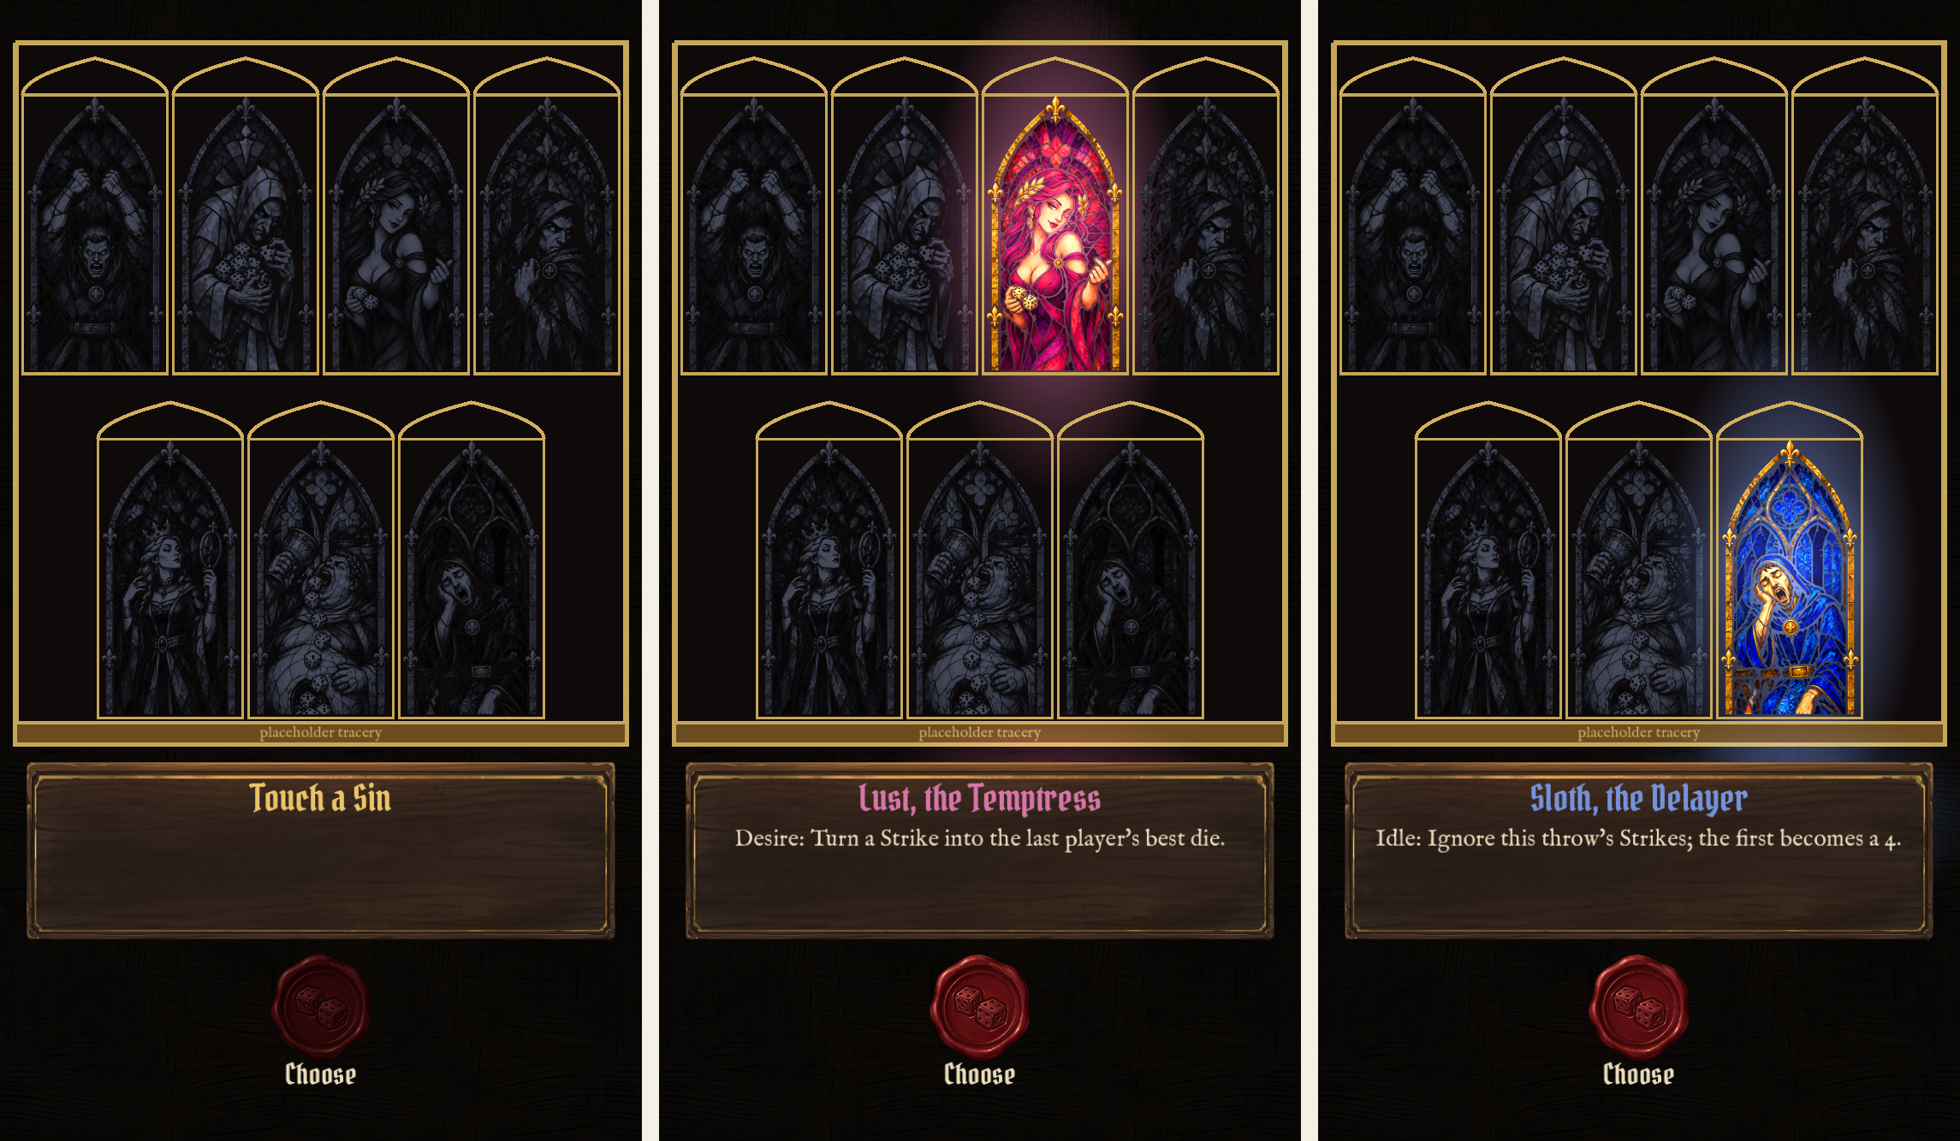
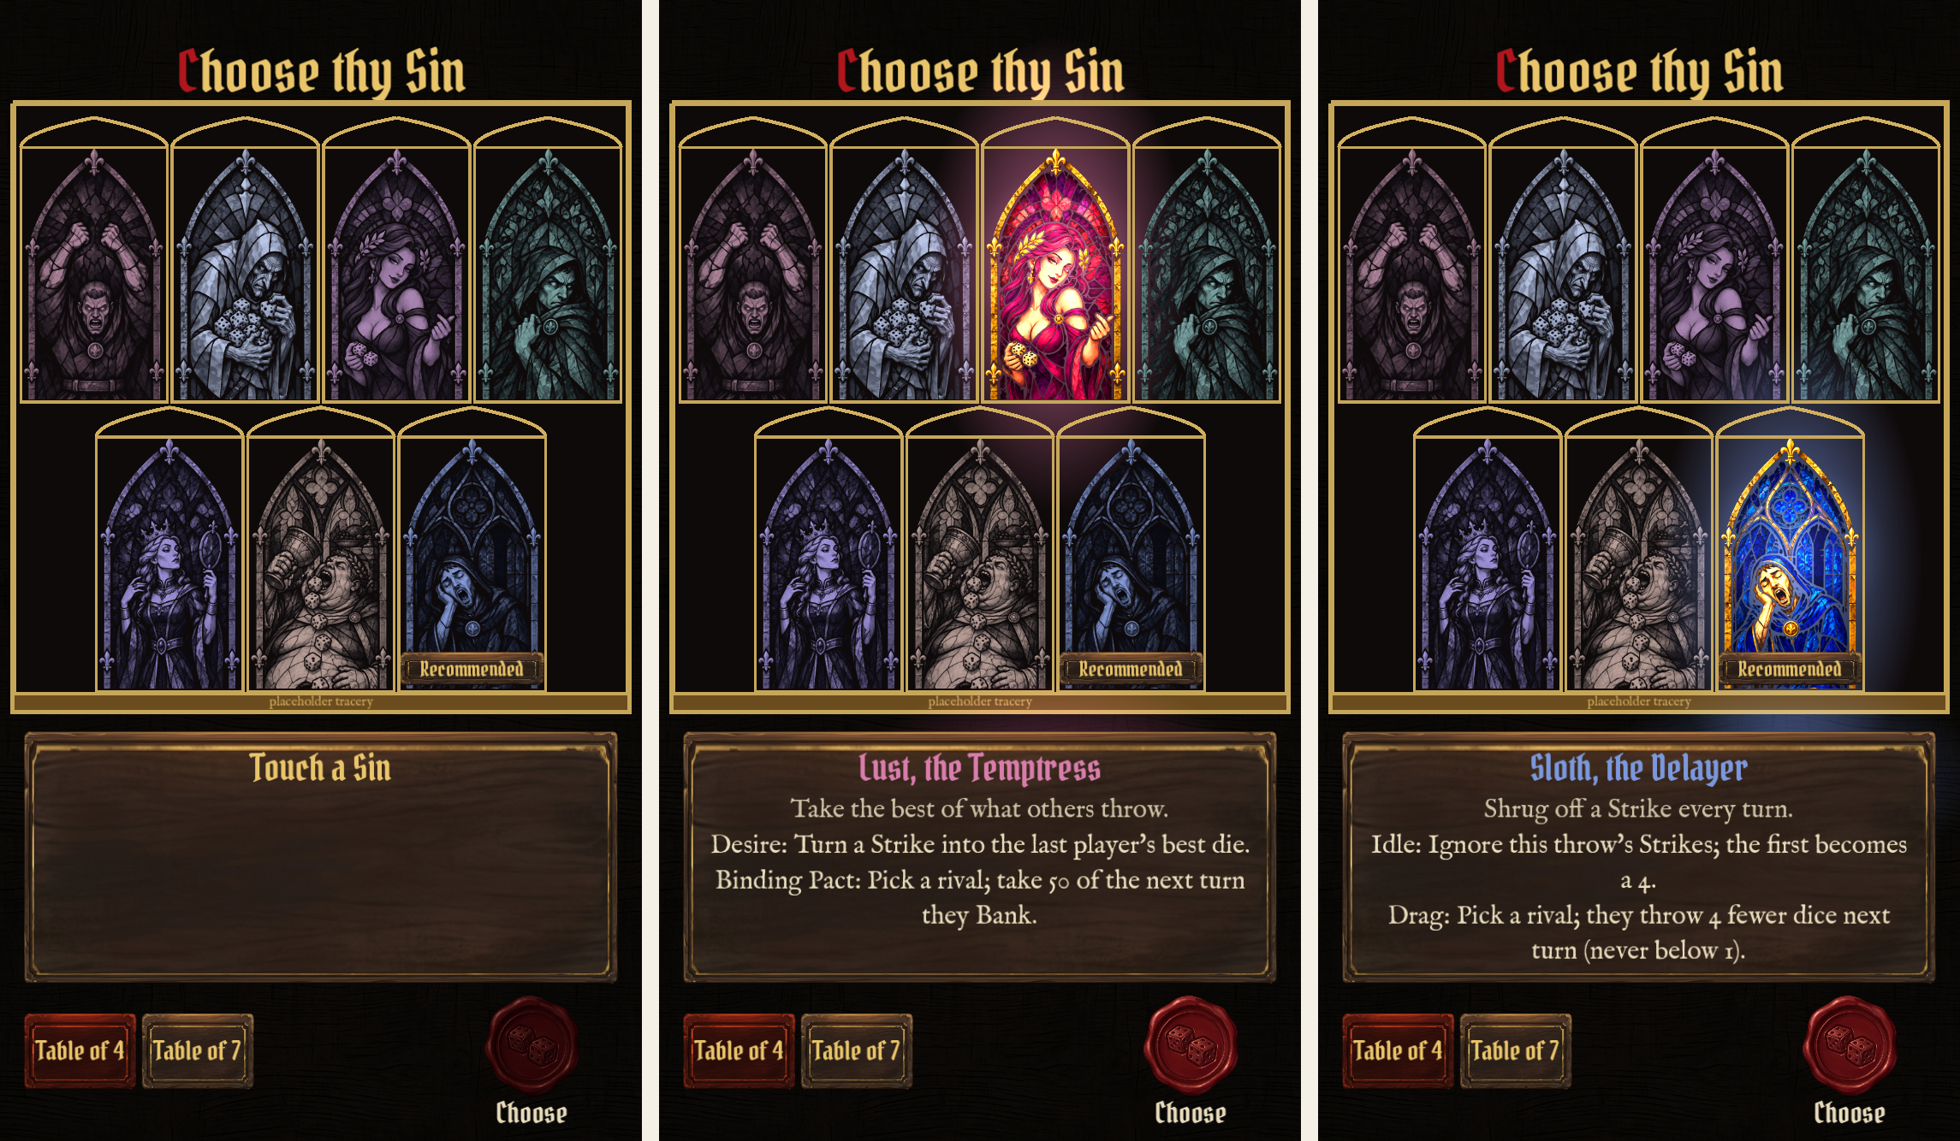
review: packet for REPLY 31 (target frame, SE Master plate, Sin plates, selection window, tracery plan); REPLY 28-30 packet archived

diff --git a/Docs/review/latest/packet.md b/Docs/review/latest/packet.md
@@ -1,28 +1,29 @@
-# Packet: REPLY 28-30 (Master fixes, numerals, Sin plates, menus, motion list, frame and tracery quotes)
-**Local only, not pushed. 0 credits spent (162 left).** Suite: all pass (load check, then 9 tests). Text audit: 35/35 clean at se and std. Lock: the nine locked states keep their window boxes (std and SE). Page sheet (28.2) dropped per REPLY 29.
-**28.3 Numerals** (ee55d18, 0790712; `sheet.png`: Pirata before over Cinzel after). The audit then caught my own fault: the choice number sat 6 px under its word (12.5-13.1 pt). Now no table text goes under 15 pt on the smallest phone (MIN_TEXT 44 px); a number is the same size as its word.
-**28.4 Master** (a9a4c83; `master.png`). Mark and offer have no arm: plate and gold ring only. His plate over the rival tops: mark 82 std; **103 at SE**. His words can't step down there without going under 15 pt (Q1). At SE his skull sits under his own mark and offer plate.
-**28.5** (30bdbf5, b65e6b1): a rival's stake is in ink; only "<Sin>'s turn" is coloured. "Buy dice?" drops 9 px inside its plate, off the gold border; the row keeps its height. A two-line question stays where it was (dropping it touched the buttons).
-**28.6 Jaw** (cd205aa; `master.png` right): only the jaw's connected piece is kept; the chin rest's sliver and the flecks are gone. Size and hinge are unchanged.
-**28.1 Sin plates** (9359854; `sin_plates.png`, mock `tools/sin_plate_mock.gd`, not wired). Recorded in TableSpec as exception 2, "sheeted, not wired". No Master plate while a Sin speaks. The border is the plate's gold recoloured to the Sin's colour.
-- Active Sin: across the foot of its window, at the window's width (385 std, 276 SE). A long line wraps to 3 lines at std and **5 at SE**, covering the face; "underpriced" splits from its comma.
-- Rival Sin: hung over its window, notch down. It is wider than its window (282-618 px) and sits over the band above. At std it covers the Master's jaw. At SE his face shows; the plate covers part of his crown of roses. At std the long line leaves "4." alone on a line.
-**28.7 / 30.2 Motion**: `animations.md` lists the table (18 items) and the Sin selection screen (8). Not animated: candle flames, window light, track tokens (they jump), the plates.
-**28.8 Menus** (`menus.png`, 18 screens, before and after; mock `tools/menu_restyle_mock.gd`, not wired).
-- Painted page or plate in place of flat panels; buttons on the plate in gold Pirata; a selected toggle is the plate dyed crimson; text in IM Fell, ink on light and bone on dark.
-- Screens with no flat panels (title, Sin select, offer) barely change. The Chronicle's plate stretches its wood grain full height. The accept, refuse, claim, score and end overlays are the old board's.
-**29 Target frame**: not made; waiting for your word.
-- Plan: Nano Banana 2.1 at 2K 9:16, built on today's std table screenshot, with the kept windows, seals and candles as references. 18 credits each; 2 tries = 36. Cut to 750x1334.
-- Touches nothing in the build; files go in `Docs/review/latest/` only.
-- To be restyled: the page (with frame), track, tokens, pointer, dice, window light, a third seal and the top band. I will overlay the lock boxes on the result and list every element that moved.
-**30 Sin selection window** (`sin_window.png`: none lit, Lust lit top tier, Sloth lit bottom tier; mock `tools/sin_window_mock.gd`, placeholder tracery, 0 credits).
-- Lancets 4 over 3, 231x463 layout px = 160x321 px at 750 wide. Each kept window is cropped from the top to 2.0:1 (they are 3.4:1), so every Sin loses the lower ~40% of its window and the bottom of its own frame.
-- Unlit and lit are one shader. The plate shows the power only; the seal is the Throw art as a stand-in.
-- Tracery quote: GPT 2.5 Flare 2K, transparent, the target frame as reference: 22 credits each, 2 tries = 44. Touches nothing now; wired later it touches the selection scene and its input only.
+# Packet: REPLY 31 (target frame, SE Master plate, Sin plates, selection window, tracery plan)
+**Local only, not pushed. 18 credits spent (144 left).** Suite: all pass (load check, then 9 tests). Text audit: 35/35 clean at se and std. Lock: OK at std and SE. Wired this round: item 2 only.
+**31.1 Target frame** (one try; `frame.png`: today | frame | frame with the lock boxes; `target_frame.png` at 750x1334). No lettering.
+- Same boxes: windows, dice, Bank and Throw, my seal, the page.
+- Moved or restyled: the top band is carved stone niches. The Master is the full fiddle piece (bow and fiddle), right of and higher than his head box. The page has a gilded carved border with a deckled page inside. The track tokens are darker medallions. The dead die is cracked. The ability seal is pink wax with a rose (its die badge kept). Stake and numbers are blank.
+- Not as asked: the window light is still a hard-edged polygon; the coloured bars under the dice remain; the pointer is still a pill with a triangle; the snuffed candle is ivory, not dark.
+**31.2 Master plate** (67ec6c5, b90ff4f; `master.png`).
+- The cause was that his breath scaled about his foot, so at SE he drew 150 px low and his plate covered his skull. His position now takes that pivot back out, so he draws where his boxes say at every size.
+- Wording: "{name} leads. No chain this round." is now "{name} leads. No chain." No other line was reworded.
+- Plate over the rivals: 103 to 44 px at SE (one line); 82 px at std, unchanged, where it still wraps after "No".
+**31.3 Sin plates** (`sin_plates.png`, 8 cases plus each seat's longest line, std and SE; `tools/sin_plate_mock.gd`; not wired). No plate touches his skull or jaw.
+- Every plate is at its own window's foot. A rival's notch points up and its window brightens.
+- At std every line fits on 1-2 lines at 60. At SE only Wrath's "You burned / past Lust. / Not me." takes 3 lines; the rest take 2 at 60.
+- A rival's plate now sits over the top of the page's track. At std it spans y 878-1061 and covers the rival tokens and totals.
+**31.4 Selection window** (`sin_window.png`: none lit, Lust lit, Sloth lit; `tools/sin_window_mock.gd`; not wired).
+- Unlit is moonlit grey with a tint of each Sin. "Choose thy Sin" and the Table of 4 / 7 control are back. Tiers are 8 px apart. Lancets are 236x423 (164x294 at 750 wide).
+- Crop: 1.79:1 of the 3.4:1 windows (was 2.0:1). Most of the height goes to the plate, which carries both abilities.
+- Carried over: sheen and backlight, the Recommended tag on Sloth, epithet, play, and both abilities. Cannot show in a still: the breathing glow; the "plaque" sound and sting; keyboard; Reduce Motion. These are design only until it is wired. Dots and swipe are replaced by dragging across the lancets.
+- Name contrast on the plate, raised to at least 4.5:1 where it fell short: Wrath 4.1 to 4.6, Lust 4.4 to 4.6, Pride 4.3 to 4.5, Sloth 4.3 to 4.6; the rest pass as they are.
+**31.5 Tracery plan** (no credits):
+- Generate one lancet module: canopy and side posts, transparent, made once. Code tiles it 4 + 3 at the exact lancet rects, so the holes line up by construction. A separate outer frame and base band go around it. The other way, fitting the lancets to one generated piece, means measuring holes that drift each try.
+**31.6 Menus**: on hold until the frame. Pirata stays for the title wordmark and the screen headings. **31.7 VFX notes** (line fades, token motion, the Strike box): recorded for the VFX pass, not built.
+**Touches / could break**: wired code touches only the Master's position and one line of `ui/rules_text.gd` (with its fixture). It could break his placement at other sizes, which the lock, the audit and the suite cover.
 
 **Questions**
-1. SE mark plate is 103 px over the rivals, not 92, because of the 15 pt floor: accept it, shorten that line, or tighten line spacing (91 px, letters near the gold border)? Rec: shorten that line.
-2. Make the target frame: 2 tries, 36 credits? Rec: yes.
-3. Make the tracery after the frame is approved: 2 tries, 44 credits? Rec: yes, after Q2.
-4. A Sin's line over 2 lines on its own window (SE): show it on a plate hung from the window top, like a rival's? Rec: yes.
-5. Wire the Sin plates as sheeted, with Q4? Rec: yes.
+1. Second frame try (18 credits), fixing the four "not as asked" items? Rec: yes, after your look.
+2. Plates: rival plates cover the track top. Accept that while a rival speaks? Rec: yes; the track is display only.
+3. Selection crop 1.79:1: move the table-size control onto the heading row to gain about 100 px of lancet? Rec: yes.
+4. Tracery as one repeated lancet module plus a frame? Rec: yes.

diff --git a/Docs/review/archive/2026-11-16-reply28-30/packet.md b/Docs/review/archive/2026-11-16-reply28-30/packet.md
@@ -1,0 +1,28 @@
+# Packet: REPLY 28-30 (Master fixes, numerals, Sin plates, menus, motion list, frame and tracery quotes)
+**Local only, not pushed. 0 credits spent (162 left).** Suite: all pass (load check, then 9 tests). Text audit: 35/35 clean at se and std. Lock: the nine locked states keep their window boxes (std and SE). Page sheet (28.2) dropped per REPLY 29.
+**28.3 Numerals** (ee55d18, 0790712; `sheet.png`: Pirata before over Cinzel after). The audit then caught my own fault: the choice number sat 6 px under its word (12.5-13.1 pt). Now no table text goes under 15 pt on the smallest phone (MIN_TEXT 44 px); a number is the same size as its word.
+**28.4 Master** (a9a4c83; `master.png`). Mark and offer have no arm: plate and gold ring only. His plate over the rival tops: mark 82 std; **103 at SE**. His words can't step down there without going under 15 pt (Q1). At SE his skull sits under his own mark and offer plate.
+**28.5** (30bdbf5, b65e6b1): a rival's stake is in ink; only "<Sin>'s turn" is coloured. "Buy dice?" drops 9 px inside its plate, off the gold border; the row keeps its height. A two-line question stays where it was (dropping it touched the buttons).
+**28.6 Jaw** (cd205aa; `master.png` right): only the jaw's connected piece is kept; the chin rest's sliver and the flecks are gone. Size and hinge are unchanged.
+**28.1 Sin plates** (9359854; `sin_plates.png`, mock `tools/sin_plate_mock.gd`, not wired). Recorded in TableSpec as exception 2, "sheeted, not wired". No Master plate while a Sin speaks. The border is the plate's gold recoloured to the Sin's colour.
+- Active Sin: across the foot of its window, at the window's width (385 std, 276 SE). A long line wraps to 3 lines at std and **5 at SE**, covering the face; "underpriced" splits from its comma.
+- Rival Sin: hung over its window, notch down. It is wider than its window (282-618 px) and sits over the band above. At std it covers the Master's jaw. At SE his face shows; the plate covers part of his crown of roses. At std the long line leaves "4." alone on a line.
+**28.7 / 30.2 Motion**: `animations.md` lists the table (18 items) and the Sin selection screen (8). Not animated: candle flames, window light, track tokens (they jump), the plates.
+**28.8 Menus** (`menus.png`, 18 screens, before and after; mock `tools/menu_restyle_mock.gd`, not wired).
+- Painted page or plate in place of flat panels; buttons on the plate in gold Pirata; a selected toggle is the plate dyed crimson; text in IM Fell, ink on light and bone on dark.
+- Screens with no flat panels (title, Sin select, offer) barely change. The Chronicle's plate stretches its wood grain full height. The accept, refuse, claim, score and end overlays are the old board's.
+**29 Target frame**: not made; waiting for your word.
+- Plan: Nano Banana 2.1 at 2K 9:16, built on today's std table screenshot, with the kept windows, seals and candles as references. 18 credits each; 2 tries = 36. Cut to 750x1334.
+- Touches nothing in the build; files go in `Docs/review/latest/` only.
+- To be restyled: the page (with frame), track, tokens, pointer, dice, window light, a third seal and the top band. I will overlay the lock boxes on the result and list every element that moved.
+**30 Sin selection window** (`sin_window.png`: none lit, Lust lit top tier, Sloth lit bottom tier; mock `tools/sin_window_mock.gd`, placeholder tracery, 0 credits).
+- Lancets 4 over 3, 231x463 layout px = 160x321 px at 750 wide. Each kept window is cropped from the top to 2.0:1 (they are 3.4:1), so every Sin loses the lower ~40% of its window and the bottom of its own frame.
+- Unlit and lit are one shader. The plate shows the power only; the seal is the Throw art as a stand-in.
+- Tracery quote: GPT 2.5 Flare 2K, transparent, the target frame as reference: 22 credits each, 2 tries = 44. Touches nothing now; wired later it touches the selection scene and its input only.
+
+**Questions**
+1. SE mark plate is 103 px over the rivals, not 92, because of the 15 pt floor: accept it, shorten that line, or tighten line spacing (91 px, letters near the gold border)? Rec: shorten that line.
+2. Make the target frame: 2 tries, 36 credits? Rec: yes.
+3. Make the tracery after the frame is approved: 2 tries, 44 credits? Rec: yes, after Q2.
+4. A Sin's line over 2 lines on its own window (SE): show it on a plate hung from the window top, like a rival's? Rec: yes.
+5. Wire the Sin plates as sheeted, with Q4? Rec: yes.
